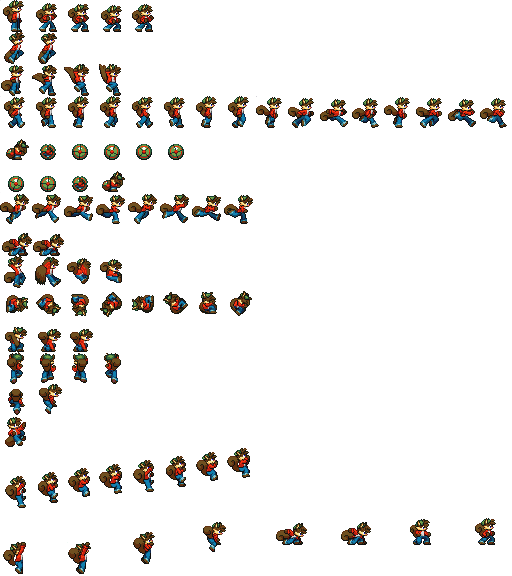
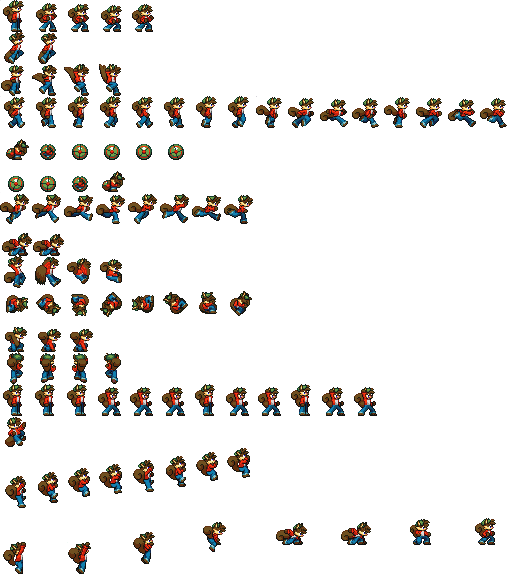
add win pose animation; adjust dash cooldown timing

Changed region(s): [[0.0, 0.6562, 0.75, 0.7188]]

diff --git a/src/entities/Player.java b/src/entities/Player.java
@@ -73,7 +73,7 @@ public class Player extends Entity {
     // Dash
     private boolean dash = false;                   // true if user is pressing dash, false otherwise
     private boolean dashing = false;                // true if player is dashing , false otherwise
-    private long dashCoolDown = 2000;               // time between dashes (ms)
+    private long dashCoolDown = 1500;               // time between dashes (ms)
     private long startDashTime = 0;                 // get the time when start dashing
     private float positionXAfterDash = 0;
     private float dashSpeed = 4f;
@@ -85,6 +85,8 @@ public class Player extends Entity {
     private boolean unvulerable = false;            // turn true when just got hit, false after unvulerableTime
     private long timeSinceLastUnvulerable = 0;
     private long unvulerableTime = 2000;            // (ms)
+    private boolean winning = false;
+    public boolean finishWinning = false;
 
     // FOR ANIMATIONS
     // Direction flip
@@ -233,6 +235,13 @@ public class Player extends Entity {
                     case FINISH_DASH -> {
                         playerAction = IDLE;
                     }
+                    case WIN_POSE -> {
+                        winning = false;
+                        finishWinning = true;
+                        canMove = true;
+                        playerAction = IDLE;
+                        aniIndex = 0;
+                    }
                     default -> aniIndex = 0;
                 }
             }
@@ -254,6 +263,9 @@ public class Player extends Entity {
                 playerAction = JUMP;
             else
                 playerAction = FALL;
+        } else if (winning) {
+            playerAction = WIN_POSE;
+            canMove = false;
         } else {
             if (dashing) {
                 playerAction = START_DASH;
@@ -458,6 +470,7 @@ public class Player extends Entity {
             hitbox.y += TILE_SIZE + 5;
             hitbox.height -= TILE_SIZE + 5;
             dashing = true;
+            canMove = false;
             startDashTime = System.currentTimeMillis();
         }
         else {
@@ -465,7 +478,6 @@ public class Player extends Entity {
                 if(hitbox.x > positionXAfterDash){
                     if(CanMoveHere(hitbox.x - dashSpeed, hitbox.y, hitbox.width, hitbox.height, levelData)){
                         hitbox.x -= dashSpeed;
-                        canMove = false;
                     }
                     else {
                         while(CanMoveHere(hitbox.x - 1, hitbox.y, hitbox.width, hitbox.height, levelData)){
@@ -666,6 +678,10 @@ public class Player extends Entity {
 
     public void setDash(boolean dash){
         this.dash = dash;
+    }
+
+    public void setWinning(boolean winning){
+        this.winning = winning;
     }
 
     public void drawHealth(Graphics2D g2){

diff --git a/src/main/Game.java b/src/main/Game.java
@@ -151,9 +151,10 @@ public class Game implements Runnable {
                     player.getHitbox().y > levelManager.getCurrentLevel().getWinPos().y - 10 &&
                     player.getHitbox().y < levelManager.getCurrentLevel().getWinPos().y + 10) {
                         if (levelManager.getCurrentLevel().getId() == 1) {
-                            levelManager.loadNextLevel();
                             playingLevel1 = false;
                             finishedLevel1 = true;
+                            player.setWinning(true);
+                            
                         }
                         else if (levelManager.getCurrentLevel().getId() == 2) {
                             playingLevel2 = false;
@@ -161,6 +162,11 @@ public class Game implements Runnable {
                         if(!playingLevel1 && !playingLevel2) {
                             gamePanel.getGame().menu.startingMenuTexts[0] = "New Game";
                         }
+                }
+                if (player.finishWinning) {
+                    player.finishWinning = false;
+                    player.setWinning(false);
+                    levelManager.loadNextLevel();
                 }
             }
         }

diff --git a/src/utilz/Constants.java b/src/utilz/Constants.java
@@ -31,6 +31,7 @@ public class Constants {
         public static final int CROUCH = 7;
         public static final int AIR_FLIP = 9;
         public static final int FLOOR_SMASH = 10;
+        public static final int WIN_POSE = 12;
         public static final int WALL_KICK = 13;
         public static final int WALL_CLIMB = 14;
         public static final int LEDGE_CLIMB = 15;
@@ -48,6 +49,7 @@ public class Constants {
                 case CROUCH -> 2;
                 case AIR_FLIP -> 8;
                 case FLOOR_SMASH -> 3;
+                case WIN_POSE -> 12;
                 case WALL_KICK -> 1;
                 case WALL_CLIMB -> 8;
                 case LEDGE_CLIMB -> 8;
